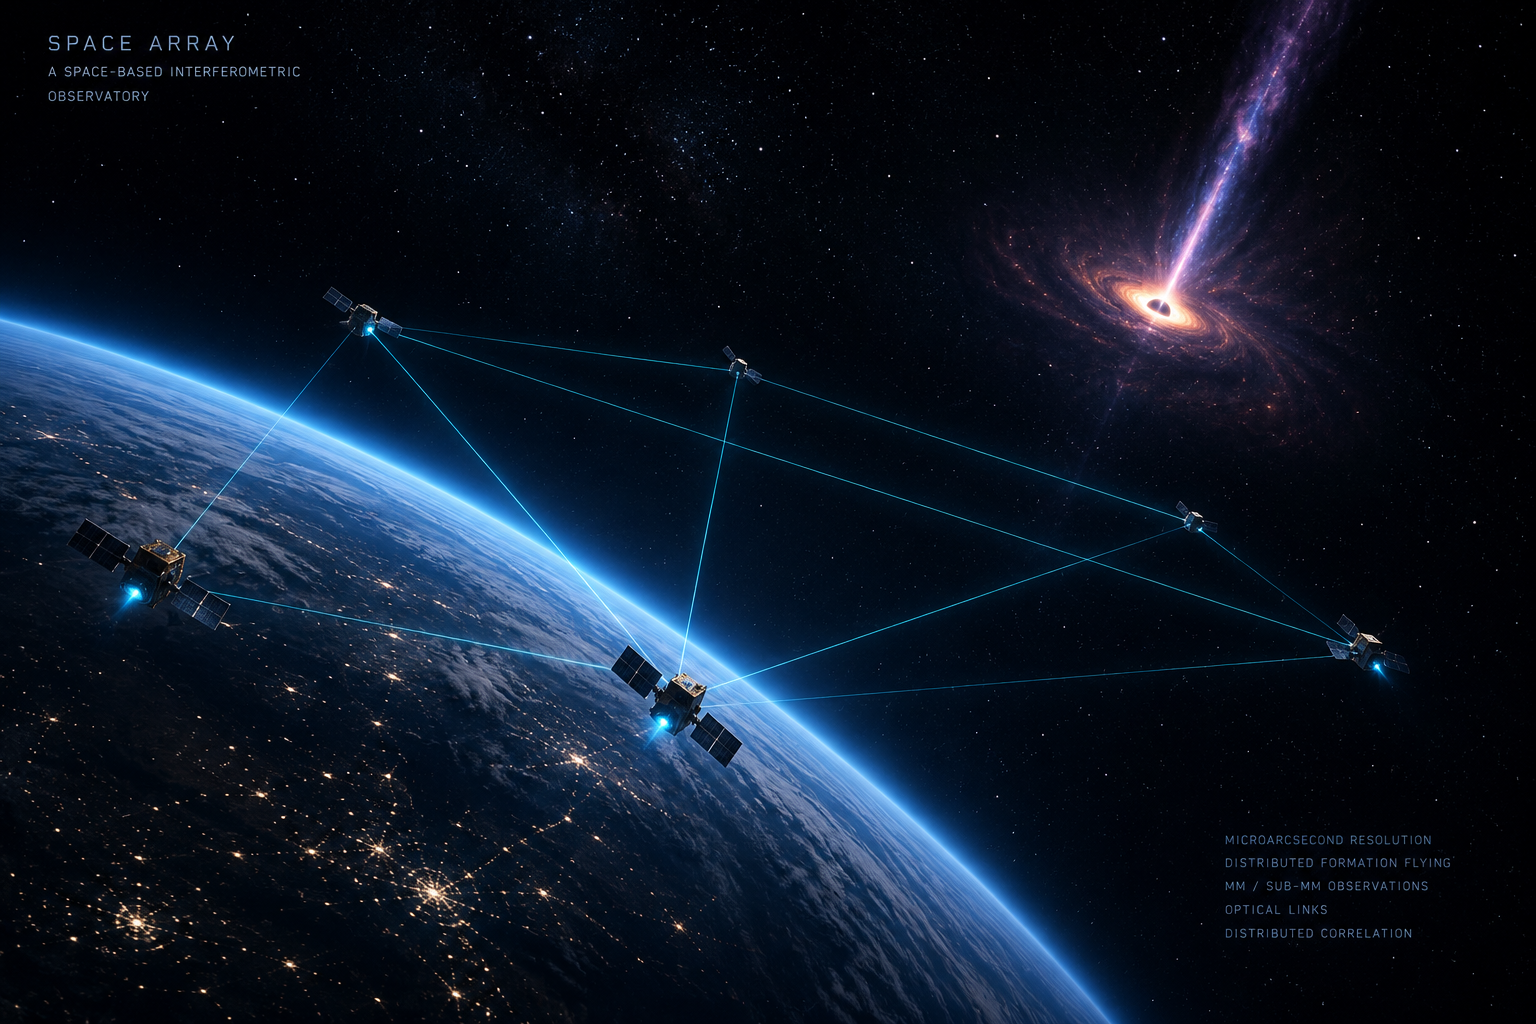
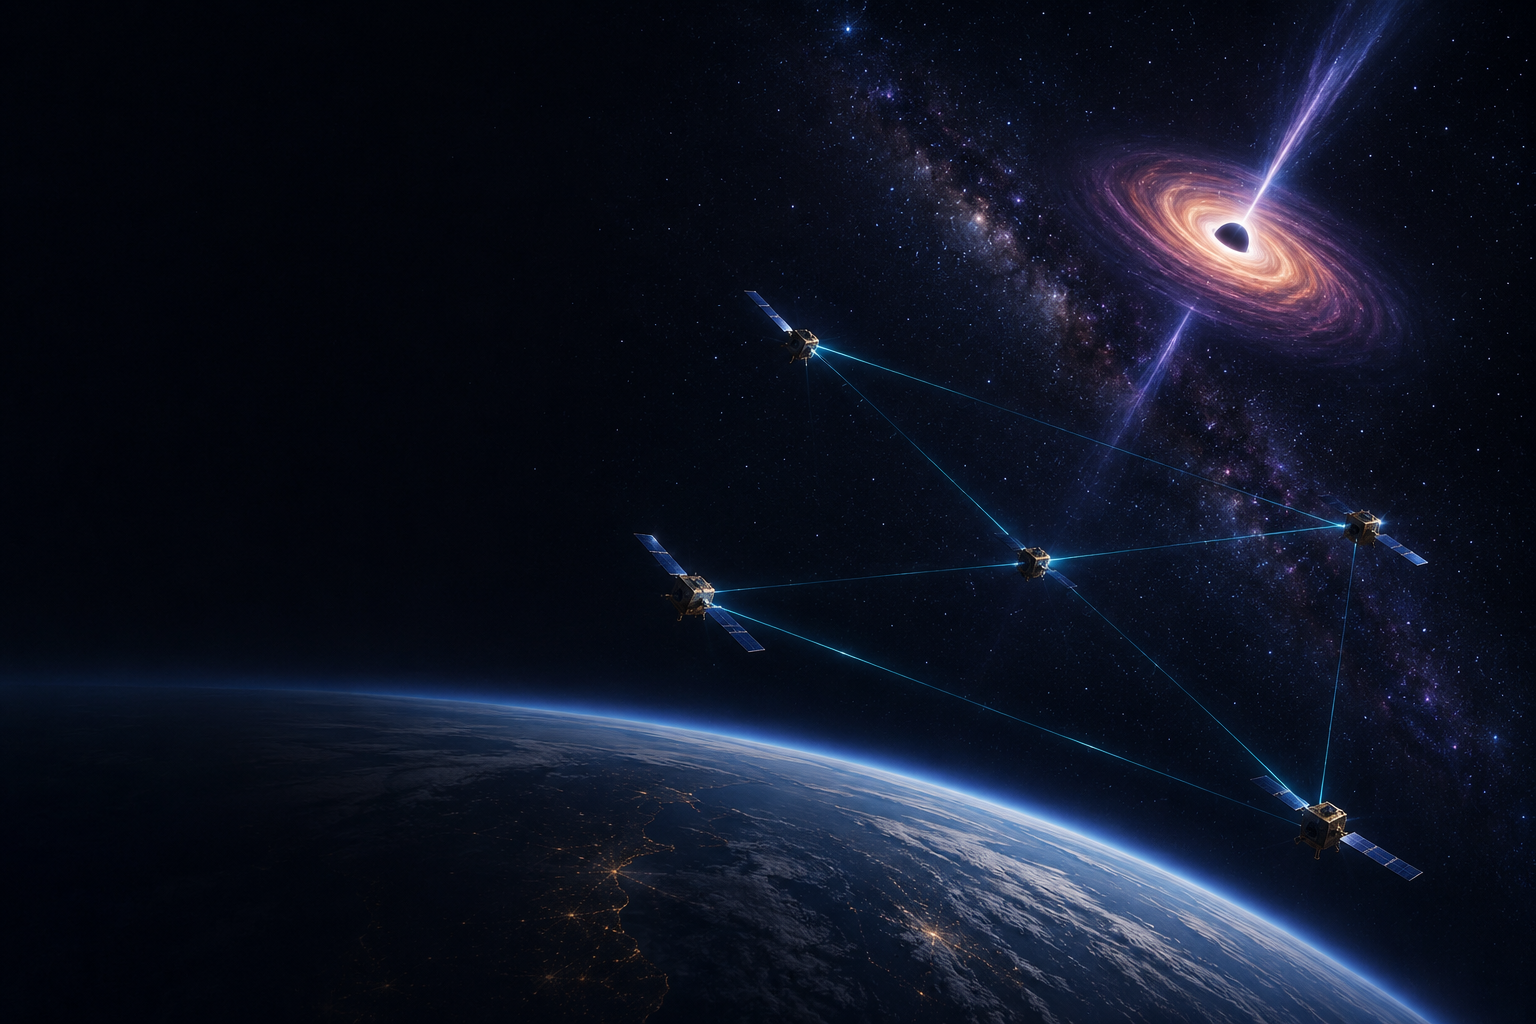
polish

diff --git a/styles.css b/styles.css
@@ -104,9 +104,9 @@ header {
 .logo img,
 .logo-mark {
   display: block;
-  width: 34px;
-  height: 34px;
-  flex: 0 0 34px;
+  width: 33px;
+  height: 33px;
+  flex: 0 0 33px;
 
   /* remove the extra CSS frame */
   padding: 0;
@@ -116,7 +116,7 @@ header {
 
   /* keep the original image, just make it visually larger */
   object-fit: contain;
-  transform: scale(1.75);
+  transform: scale(1.65);
   transform-origin: center;
   filter: none;
 }
@@ -1336,9 +1336,9 @@ ul.clean,
 
   .logo img,
   .logo-mark {
-    width: 34px;
-    height: 34px;
-    flex-basis: 34px;
+    width: 32px;
+    height: 32px;
+    flex-basis: 32px;
     transform: scale(1.55);
   }
 